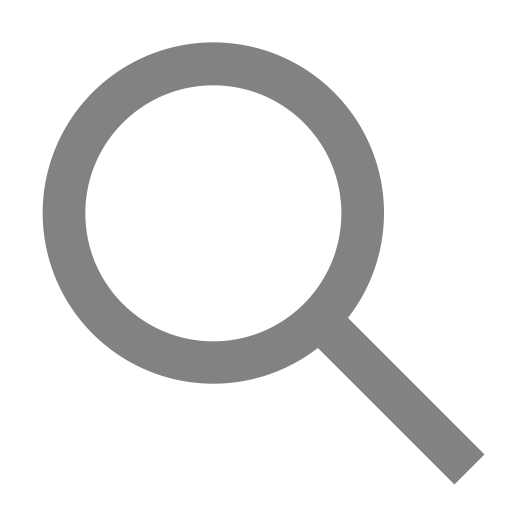
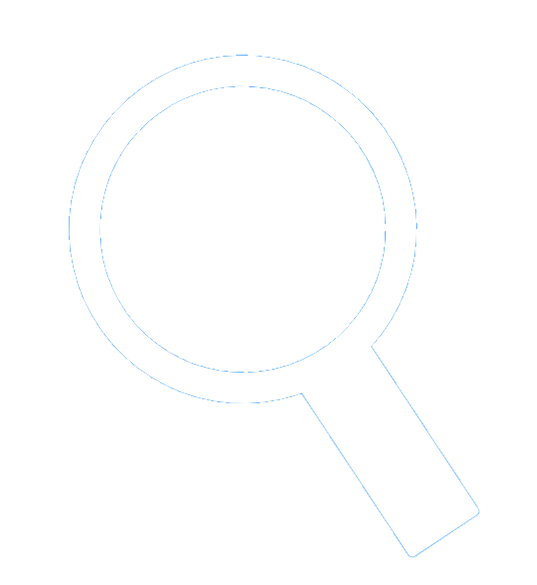
Agregar barra de busqueda

diff --git a/VistaTienda/CSS/registroUsuario.css b/VistaTienda/CSS/registroUsuario.css
@@ -1,0 +1,56 @@
+.Registro-container {
+    display: flex;
+    flex-direction: column;
+    align-items: center;
+    margin: 40px 0;
+    color: white;
+}
+
+.Registro-container h1 {
+    margin-bottom: 20px;
+    font-size: 24px;
+}
+
+.Registro-formulario {
+    display: flex;
+    flex-direction: column;
+    align-items: center;
+    background-color: #1E90FF;  /* mismo azul que header */
+    padding: 30px;
+    border-radius: 15px;
+    width: 350px;
+    box-shadow: 0 4px 8px rgba(0,0,0,0.3);
+}
+
+.Registro-formulario label {
+    align-self: flex-start;
+    margin: 10px 0 5px 0;
+    font-weight: bold;
+}
+
+.Registro-formulario input,
+.Registro-formulario select {
+    width: 100%;
+    padding: 10px;
+    border-radius: 8px;
+    border: 1px solid #ccc;
+    margin-bottom: 15px;
+    font-size: 14px;
+    outline: none;
+}
+
+.Registro-formulario button {
+    width: 100%;
+    padding: 12px;
+    border-radius: 8px;
+    border: none;
+    background-color: black;
+    color: white;
+    font-weight: bold;
+    cursor: pointer;
+    transition: 0.3s;
+}
+
+.Registro-formulario button:hover {
+    background-color: #333;
+}

diff --git a/VistaTienda/HTML/LoginUser.html b/VistaTienda/HTML/LoginUser.html
@@ -5,6 +5,7 @@
     <meta name="viewport" content="width=device-width, initial-scale=1.0">
     <title>Document</title>
     <link rel="stylesheet" href="../CSS/styles.css"/>
+    <link rel="stylesheet" href="../CSS/inicioSesion.css"/>
 </head>
 <body>
     <header class="Header">
@@ -23,10 +24,17 @@
         </nav>
         <div class="Carrito">
             <button class="button-carrito">
-                <img src="" alt="Icono del carrito" class="icono-carrito">
+                <span class="carrito-text">Productos (0)</span>
+                <img src="../IMG/carrito-icon.png" alt="Icono del carrito" class="icono-carrito">
             </button>
+            <div class="inicio-registrar">
+                <a href="LoginUser.html" class="InicioLink">Inicio de sesión</a>
+                <a href="UserRegister.html" class="InicioLink">Registrar usuario</a>
+            </div>
         </div>
+        
     </header>
+    
     <main class="InicioSesion-container"><h1>Inicio de sesión</h1></main>
     <form class="form-login">
         <label for="correo">Correo:</label>

diff --git a/VistaTienda/CSS/inicioSesion.css b/VistaTienda/CSS/inicioSesion.css
@@ -1,0 +1,50 @@
+.InicioSesion-container {
+    display: flex;
+    justify-content: center;
+    margin: 40px 0 20px 0;
+    color: white;
+    font-size: 24px;
+}
+
+.form-login {
+    display: flex;
+    flex-direction: column;
+    align-items: center;
+    background-color: #1E90FF;   /* mismo azul que header */
+    padding: 30px;
+    border-radius: 15px;
+    width: 320px;
+    margin: 0 auto;               /* centra horizontalmente */
+    box-shadow: 0 4px 8px rgba(0,0,0,0.3);
+}
+
+.form-login label {
+    align-self: flex-start;
+    margin: 10px 0 5px 0;
+    font-weight: bold;
+}
+
+.form-login input {
+    width: 100%;
+    padding: 10px;
+    border-radius: 8px;
+    border: 1px solid #ccc;
+    margin-bottom: 15px;
+    font-size: 14px;
+}
+
+.form-login button {
+    width: 100%;
+    padding: 12px;
+    border-radius: 8px;
+    border: none;
+    background-color: black;
+    color: white;
+    font-weight: bold;
+    cursor: pointer;
+    transition: 0.3s;
+}
+
+.form-login button:hover {
+    background-color: #333;
+}

diff --git a/VistaTienda/HTML/UserRegister.html b/VistaTienda/HTML/UserRegister.html
@@ -5,6 +5,7 @@
     <meta name="viewport" content="width=device-width, initial-scale=1.0">
     <title>Document</title>
     <link rel="stylesheet" href="../CSS/styles.css"/>
+    <link rel="stylesheet" href="../CSS/registroUsuario.css"/>
 </head>
 <body>
     <header class="Header">
@@ -23,9 +24,15 @@
         </nav>
         <div class="Carrito">
             <button class="button-carrito">
-                <img src="" alt="Icono del carrito" class="icono-carrito">
+                <span class="carrito-text">Productos (0)</span>
+                <img src="../IMG/carrito-icon.png" alt="Icono del carrito" class="icono-carrito">
             </button>
+            <div class="inicio-registrar">
+                <a href="LoginUser.html" class="InicioLink">Inicio de sesión</a>
+                <a href="UserRegister.html" class="InicioLink">Registrar usuario</a>
+            </div>
         </div>
+        
     </header>
 
     <main class="Registro-container">

diff --git a/VistaTienda/HTML/index.html b/VistaTienda/HTML/index.html
@@ -41,7 +41,7 @@
     <section class="busqueda-container">
         <input type="text" placeholder="Buscar productos..." class="busqueda-input">
         <button class="busqueda-boton">
-        <img src="../IMG/lupa.png" alt="Buscar" class="icono-lupa">
+        <img src="../IMG/Lupa.png" alt="Buscar" class="icono-lupa">
         </button>
     </section>
 
